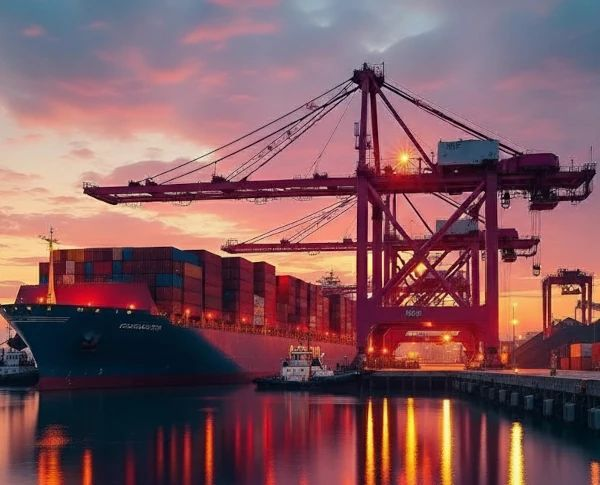
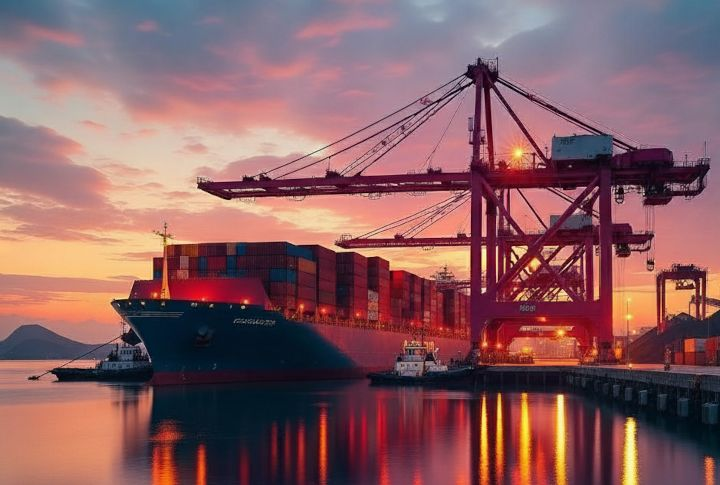
ajuste imagens

diff --git a/assets/css/style.css b/assets/css/style.css
@@ -8,9 +8,12 @@
   --color-orange-100: #fddec2;
   --color-orange-700: #ff6600;
   --color-white: #ffffff;
+  --color-blue: #2a5964;
+  --color-pink: #967C90;
 
   --color-bg: var(--color-white);
-  --color-bg-block-image-content--imagem: var(--color-orange-100);
+  --color-bg-block-image-content--imagem-1: var(--color-blue);
+  --color-bg-block-image-content--imagem-2: var(--color-pink);
   --color-bg-block-image-content--content: var(--color-white);
   --color-bg-block-text-only: var(--color-gray-100);
   --color-bg-insurance: var(--color-gray-100);
@@ -106,7 +109,11 @@ body {
 
 .image-content__image {
   aspect-ratio: 375 / 400;
-  background-color: var(--color-bg-block-image-content--imagem);
+  background-color: var(--color-bg-block-image-content--imagem-1);
+}
+
+.image-content__image--reverse {
+  background-color: var(--color-bg-block-image-content--imagem-2);
 }
 
 .image-content__image img {
@@ -720,7 +727,7 @@ hr {
   }
 
   .image-content__image {
-    aspect-ratio: 767 / 485;
+    aspect-ratio: 704 / 485;
     grid-column: 1 / 12;
   }
 

diff --git a/index.html b/index.html
@@ -125,12 +125,12 @@
               type="image/jpeg"
             />
             <source
-              srcset="./assets/img/exacta-serra-es-contadora-767px-768w.webp"
+              srcset="./assets/img/exacta-serra-es-contadora-704px-768w.webp"
               media="(min-width: 47.99875rem)"
               type="image/webp"
             />
             <source
-              srcset="./assets/img/exacta-serra-es-contadora-767px-768w.jpg"
+              srcset="./assets/img/exacta-serra-es-contadora-704px-768w.jpg"
               media="(min-width: 47.99875rem)"
               type="image/jpeg"
             />
